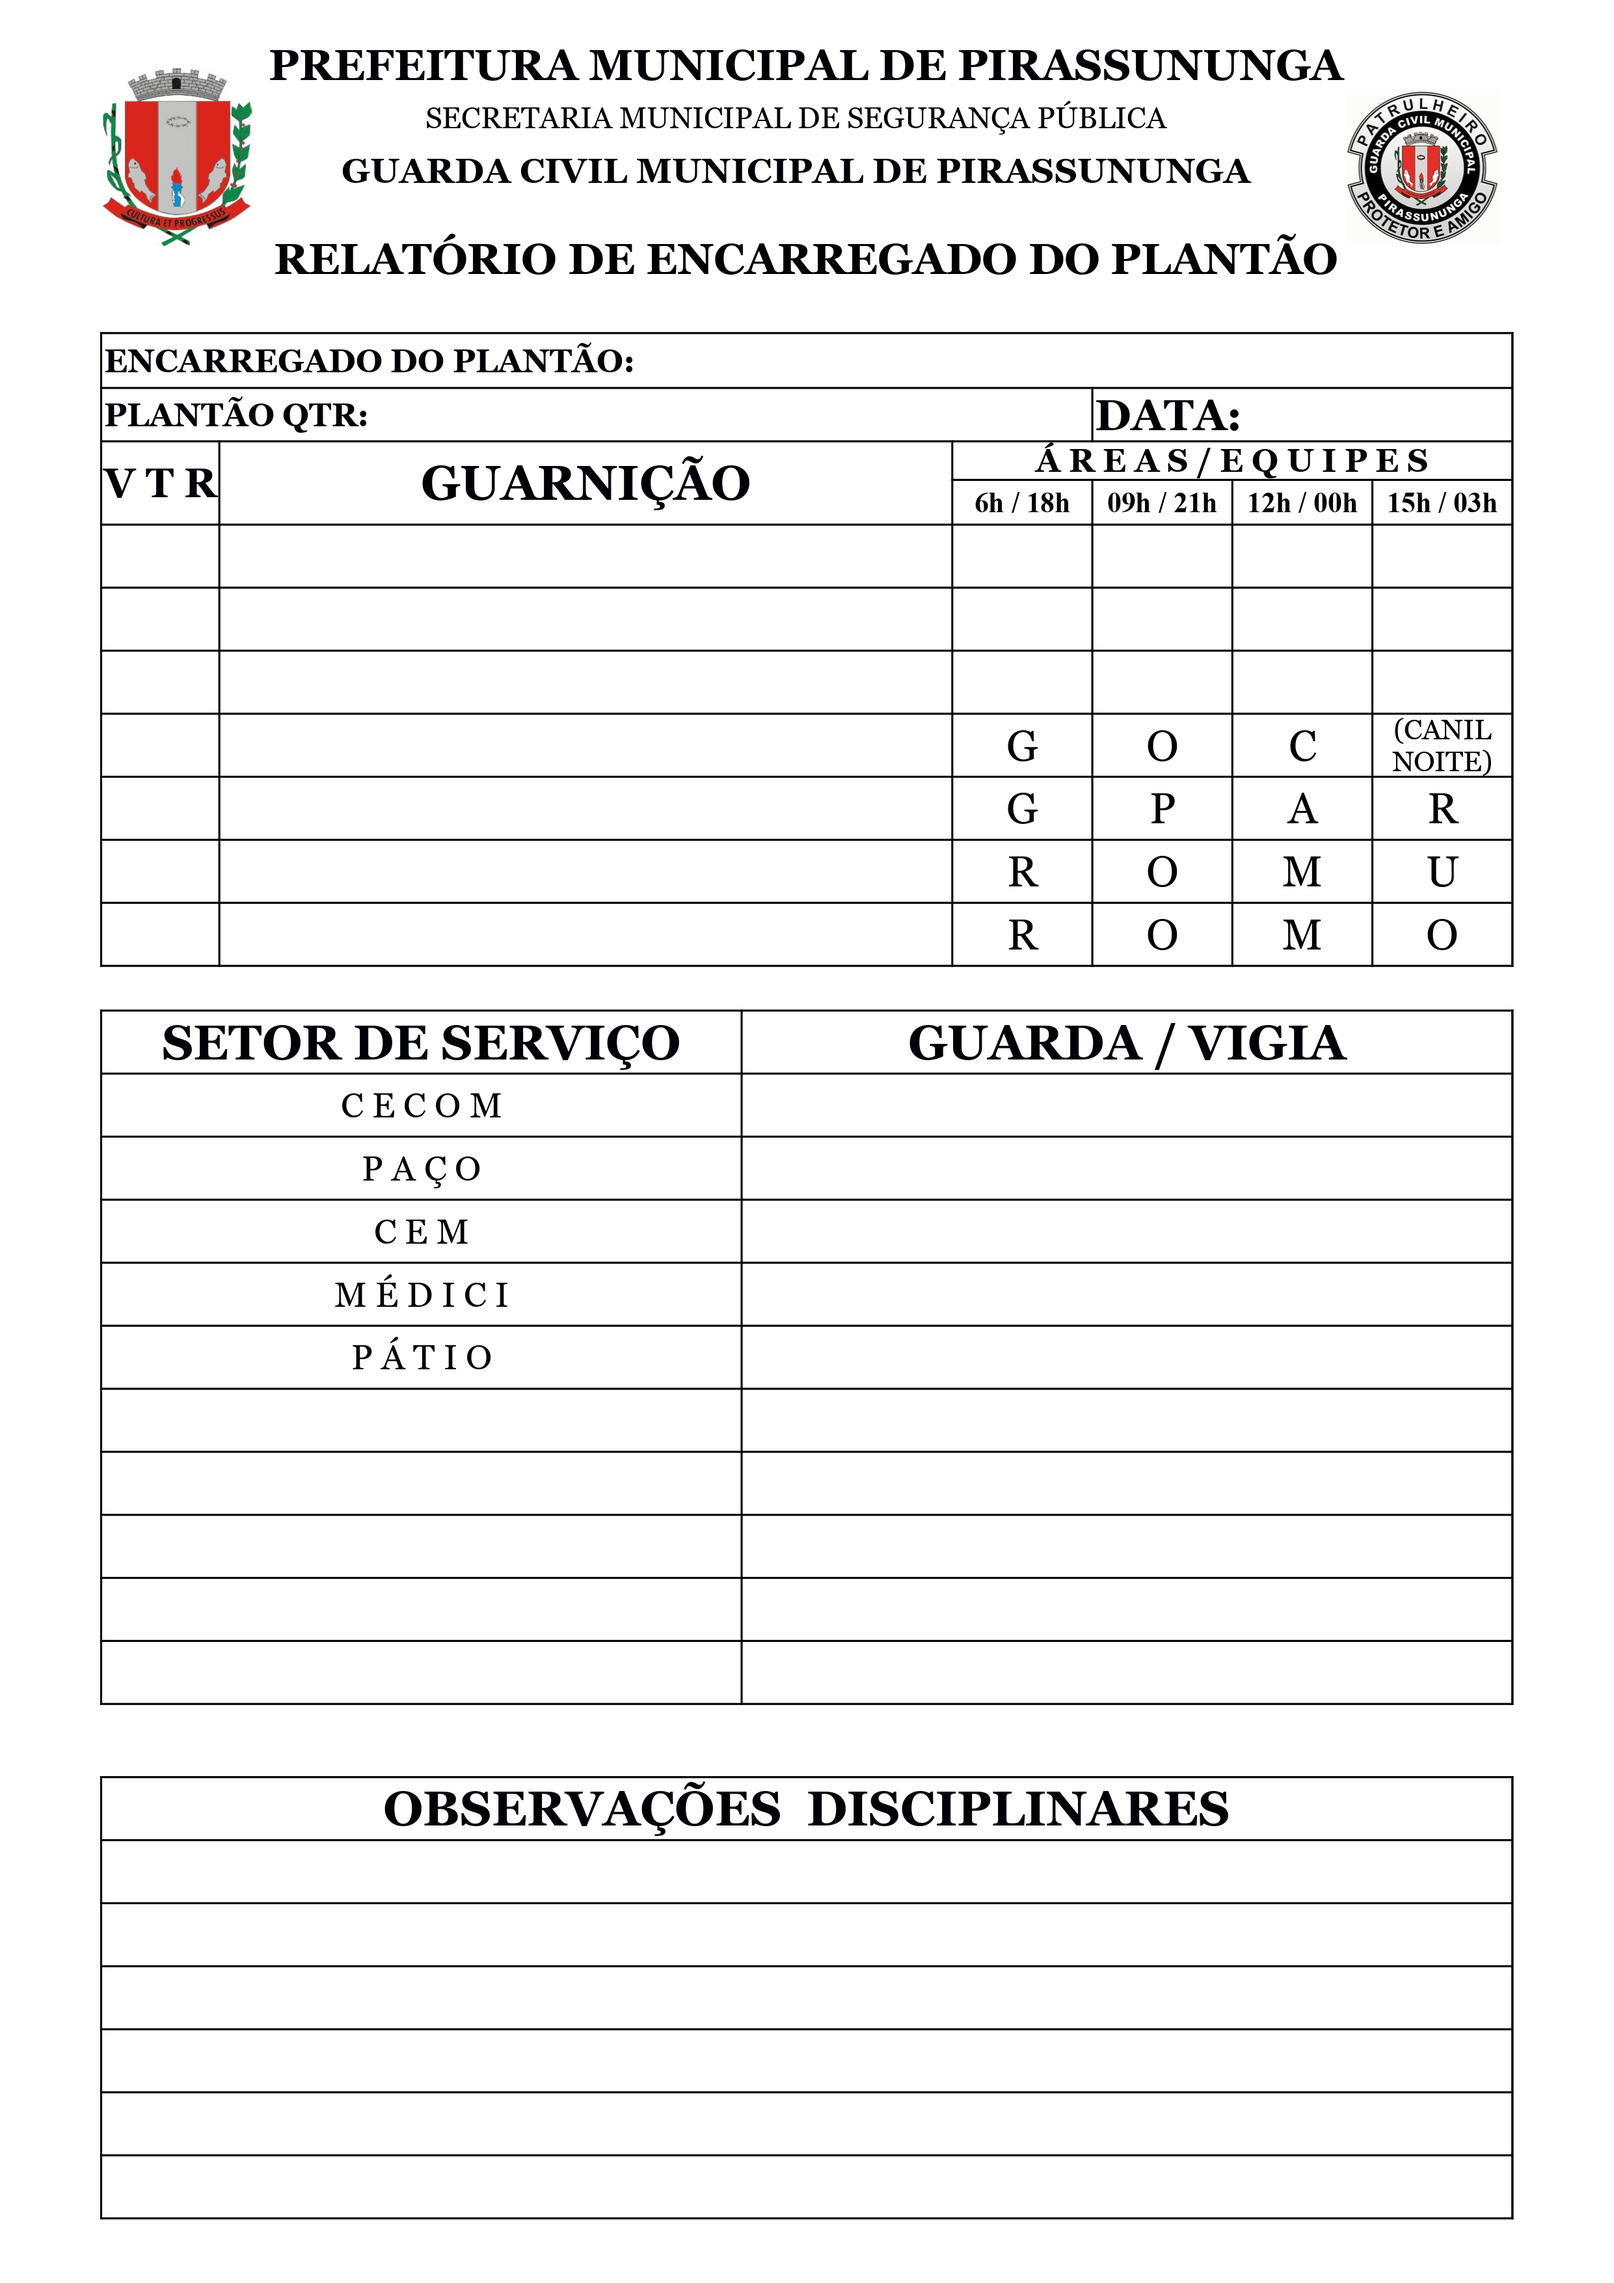
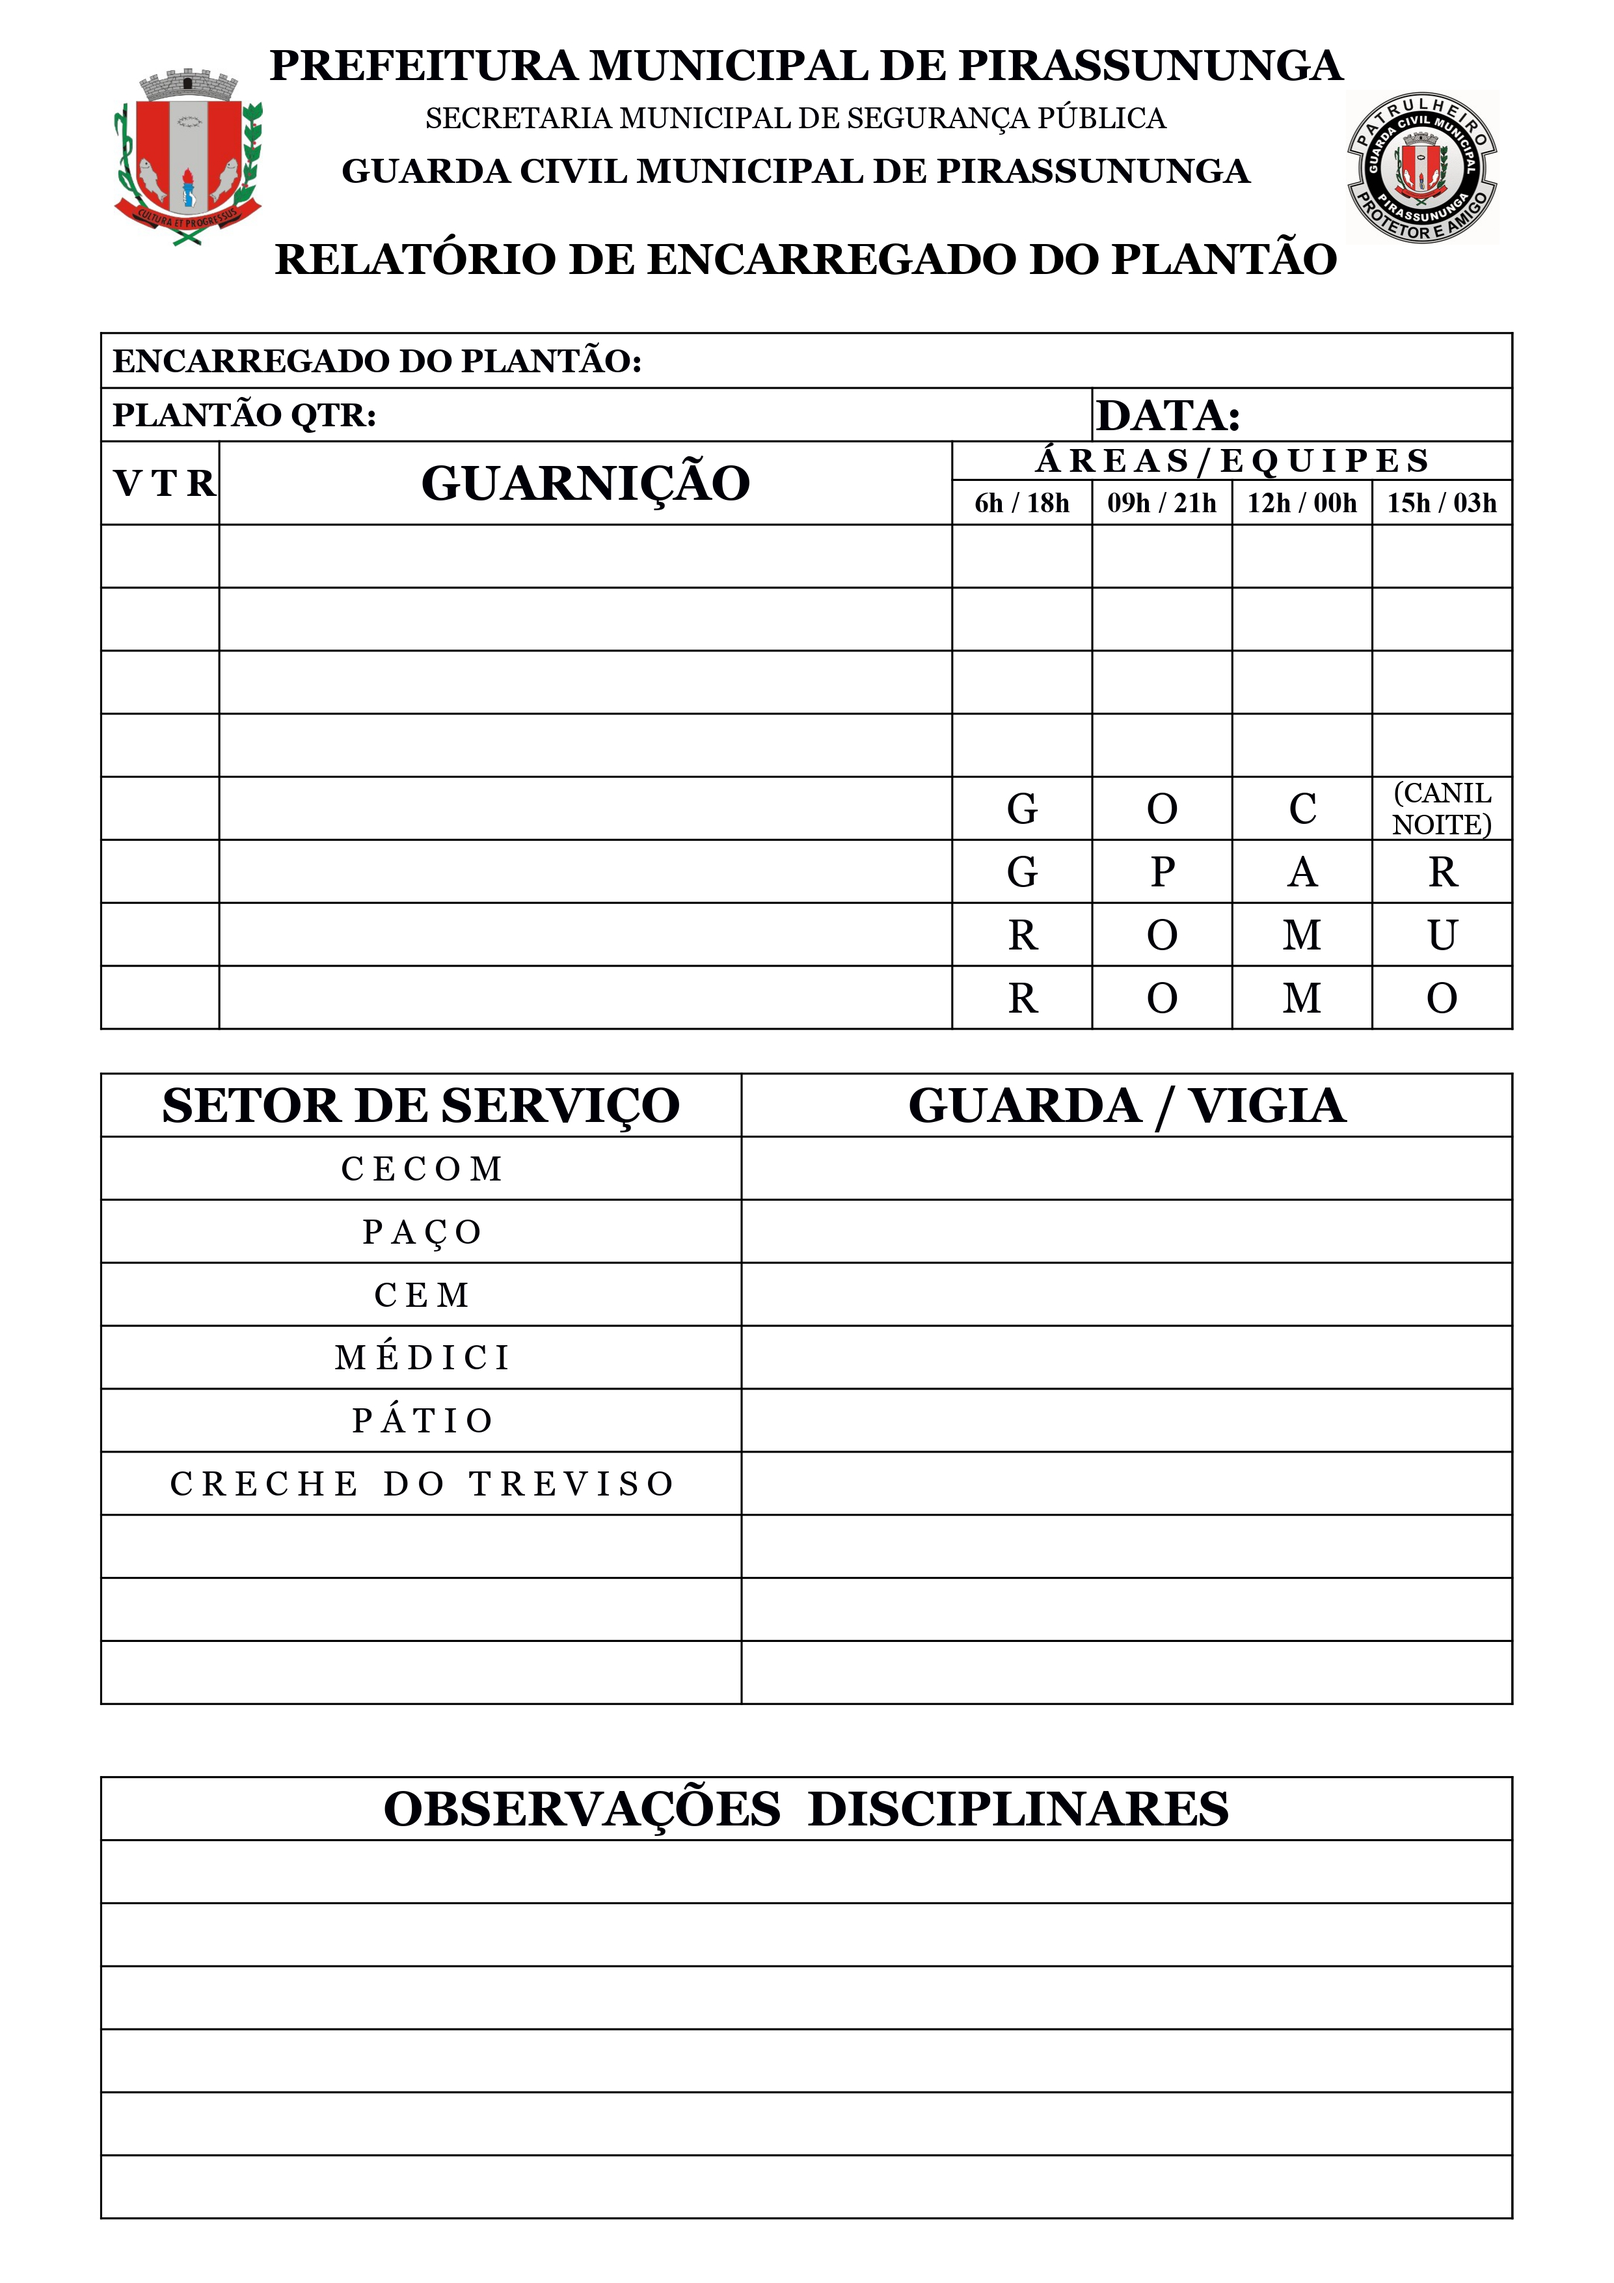
page update
changes in the page for manager report and add fields to write in this page

diff --git a/pages/report_of_manager/report_of_manager.css b/pages/report_of_manager/report_of_manager.css
@@ -1,11 +1,10 @@
-body {
-  margin: 0;
-  padding: 0;
-}
-
-.formulario {
-  width: 794px;   /* A4 - 21cm */
+.form-container {
+  position: relative;
+  width: 794px; /* Largura A4 em px a 96dpi */
+  height: 1123px; /* Altura A4 */
   margin: 0 auto;
+  background-color: white;
+  font-family: sans-serif;
 }
 
 .pagina {
@@ -19,39 +18,127 @@ body {
 .form-background {
   width: 100%;
   height: 100%;
-  position: absolute;
-  z-index: 1;
   object-fit: cover;
+  position: absolute;
+  top: 0;
+  left: 0;
+  z-index: 1;
 }
 
-.input, .observacao {
+.input {
   position: absolute;
+  font-weight: bolder;
   z-index: 2;
   background: transparent;
   border: none;
   padding: 2px 4px;
   font-size: 16px;
-  transition: font-size 0.2s ease;
-  resize: none;
-  overflow: hidden;
+  width: 80px;
+  text-align: center;
 }
 
-/* Exemplo de campos posicionados */
-.campo1 { top: 130px; left: 50px; width: 200px; }
-.campo2 { top: 180px; left: 50px; width: 200px; }
-.campo3 { top: 300px; left: 45px; width: 700px; height: 150px; line-height: 1.4; }
+.textarea {
+    font-weight: bolder;
+    font-size: 20;
+    text-align: start;
+    z-index: 2;
+    background: transparent;
+    border: solid;
+    border-bottom: none;
+    padding: 2px 4px;
+}
 
-@media print {
-  body {
-    -webkit-print-color-adjust: exact;
-    print-color-adjust: exact;
-  }
+.campo-encarregado {
+  top: 166px;
+  left: 340px;
+  width: 350px;
+}
+/* Campo de data */
+.campo-data {
+  top: 193px;
+  right: 60px;
+  width: 105px;
+}
 
-  .pagina {
-    page-break-after: always;
-  }
+.campo-hora {
+  top: 193px;
+  left: 200px;
+  width: 150px;
+}
 
-  .form-background {
-    print-color-adjust: exact;
-  }
+/* VTRs */
+.vtr1 { top: 262px; left: 50px; width: 45px; }
+.vtr2 { top: 294px; left: 50px; width: 45px; }
+.vtr3 { top: 324px; left: 50px; width: 45px; }
+.vtr4 { top: 355px; left: 50px; width: 45px; }
+.vtrGoc { top: 387px; left: 50px; width: 45px; }
+.vtrGpar { top: 417px; left: 50px; width: 45px; }
+.vtrRomu { top: 449px; left: 50px; width: 45px; }
+.vtrRomo1 { top: 479px; left: 50px; width: 45px; }
+
+/* Guarnições */
+.guarnicao1 { top: 262px; left: 120px; width: 320px; }
+.guarnicao2 { top: 294px; left: 120px; width: 320px; }
+.guarnicao3 { top: 324px; left: 120px; width: 320px; }
+.guarnicao4 { top: 355px; left: 120px; width: 320px; }
+.guarnicao5 { top: 385px; left: 120px; width: 320px; }
+.guarnicao6 { top: 415px; left: 120px; width: 320px; }
+.guarnicao7 { top: 447px; left: 120px; width: 320px; }
+.guarnicao8 { top: 477px; left: 120px; width: 320px; }
+
+/* Áreas por horário (em grupos de 4 por linha) */
+.area1-18h { top: 262px; right: 266px; width: 40px; }
+.area1-21h { top: 262px; right: 195px; width: 40px; }
+.area1-00h { top: 262px; right: 127px; width: 40px; }
+.area1-03h { top: 262px; right: 58px; width: 40px; }
+
+.area2-18h { top: 294px; right: 266px; width: 40px; }
+.area2-21h { top: 294px; right: 195px; width: 40px; }
+.area2-00h { top: 294px; right: 127px; width: 40px; }
+.area2-03h { top: 294px; right: 58px; width: 40px; }
+
+.area3-18h { top: 324px; right: 266px; width: 40px; }
+.area3-21h { top: 324px; right: 195px; width: 40px; }
+.area3-00h { top: 324px; right: 127px; width: 40px; }
+.area3-03h { top: 324px; right: 58px; width: 40px; }
+
+.area4-18h { top: 355px; right: 266px; width: 40px; }
+.area4-21h { top: 355px; right: 195px; width: 40px; }
+.area4-00h { top: 355px; right: 127px; width: 40px; }
+.area4-03h { top: 355px; right: 58px; width: 40px; }
+
+/* Setor de Serviço */
+.cecom { top: 561px; right: 75px; width: 320px; }
+.paco { top: 593px; right: 75px; width: 320px; }
+.cem { top: 624px; right: 75px; width: 320px; }
+.medici { top: 654px; right: 75px; width: 320px; }
+.patio { top: 685px; right: 75px; width: 320px; }
+.creche-do-treviso { top: 716px; right: 75px; width: 320px; }
+.outro1 { top: 748px; right: 75px; width: 320px; }
+.outro1-campo { top: 748px; left: 60px; width: 285px; }
+.outro2 { top: 778px; right: 75px; width: 320px; }
+.outro2-campo { top: 778px; left: 60px; width: 285px; }
+.outro3 { top: 809px; right: 75px; width: 320px; }
+.outro3-campo { top: 809px; left: 60px; width: 285px; }
+
+
+.observacao {
+  position: absolute;
+  bottom: 42px;
+  left: 52px;
+  width: 690px;
+  height: 170px;
+  border: none;
+  background: rgba(255, 255, 255, 0.7);
+  resize: vertical;
+  font-size: 16px;
+  line-height: 1.5;
+  padding: 4px;
+  box-sizing: border-box;
+
+  /* Quebra automática */
+  white-space: pre-wrap;
+  word-wrap: break-word;
+  overflow-wrap: break-word;
+  overflow: hidden; /* Para o ajuste automático de fonte */
 }

diff --git a/pages/report_of_manager/report_of_manager.html b/pages/report_of_manager/report_of_manager.html
@@ -7,17 +7,70 @@
     <link rel="stylesheet" href="report_of_manager.css">
 </head>
 <body>
-  <div class="formulario">
+  <div class="form-container">
   <!-- Página 1 - Frente -->
   <div class="pagina frente">
     <img src="../../assets/image/encarregado-frente.jpg" class="form-background" alt="Frente">
-    <input type="text" class="input campo1" placeholder="Campo 1">
-    <input type="text" class="input campo2" placeholder="Campo 2">
-    <!-- outros campos da frente -->
-  </div>
+    <input type="text" class="input campo-encarregado" placeholder="" />
+    <input type="text" class="input campo-data" placeholder="" />
+    <input type="text" class="input campo-hora" placeholder="" />
+    <input type="text" class="input vtr1" placeholder="" />
+    <input type="text" class="input vtr2" placeholder="" />
+    <input type="text" class="input vtr3" placeholder="" />
+    <input type="text" class="input vtr4" placeholder="" />
+    <input type="text" class="input vtrGoc" placeholder="" />
+    <input type="text" class="input vtrGpar" placeholder="" />
+    <input type="text" class="input vtrRomu" placeholder="" />
+    <input type="text" class="input vtrRomo1" placeholder="" />
+
+    <input type="text" class="input guarnicao1" placeholder="" />
+    <input type="text" class="input guarnicao2" placeholder="" />
+    <input type="text" class="input guarnicao3" placeholder="" />
+    <input type="text" class="input guarnicao4" placeholder="" />
+    <input type="text" class="input guarnicao5" placeholder="" />
+    <input type="text" class="input guarnicao6" placeholder="" />
+    <input type="text" class="input guarnicao7" placeholder="" />
+    <input type="text" class="input guarnicao8" placeholder="" />
+
+    <input type="text" class="input area1-18h" placeholder="" />
+    <input type="text" class="input area1-21h" placeholder="" />
+    <input type="text" class="input area1-00h" placeholder="" />
+    <input type="text" class="input area1-03h" placeholder="" />
+
+    <input type="text" class="input area2-18h" placeholder="" />
+    <input type="text" class="input area2-21h" placeholder="" />
+    <input type="text" class="input area2-00h" placeholder="" />
+    <input type="text" class="input area2-03h" placeholder="" />
+
+    <input type="text" class="input area3-18h" placeholder="" />
+    <input type="text" class="input area3-21h" placeholder="" />
+    <input type="text" class="input area3-00h" placeholder="" />
+    <input type="text" class="input area3-03h" placeholder="" />
+
+    <input type="text" class="input area4-18h" placeholder="" />
+    <input type="text" class="input area4-21h" placeholder="" />
+    <input type="text" class="input area4-00h" placeholder="" />
+    <input type="text" class="input area4-03h" placeholder="" />
+
+    <input type="text" class="input cecom" placeholder="" />
+    <input type="text" class="input paco" placeholder="" />
+    <input type="text" class="input cem" placeholder="" />
+    <input type="text" class="input medici" placeholder="" />
+    <input type="text" class="input patio" placeholder="" />
+    <input type="text" class="input creche-do-treviso" placeholder="" />
+    <input type="text" class="input outro1" placeholder="" />
+    <input type="text" class="input outro1-campo" placeholder="" />
+    <input type="text" class="input outro2" placeholder="" />
+    <input type="text" class="input outro2-campo" placeholder="" />
+    <input type="text" class="input outro3" placeholder="" />
+    <input type="text" class="input outro3-campo" placeholder="" />
+
+
+    <textarea class="textarea observacao" placeholder=""></textarea>
+  </div>  
 
   <!-- Página 2 - Verso -->
-  <div class="pagina verso">
+  <div class="pagina">
     <img src="../../assets/image/encarregado-verso.jpg" class="form-background" alt="Verso">
     <textarea class="observacao campo3" placeholder="Observações"></textarea>
     <!-- outros campos do verso -->
